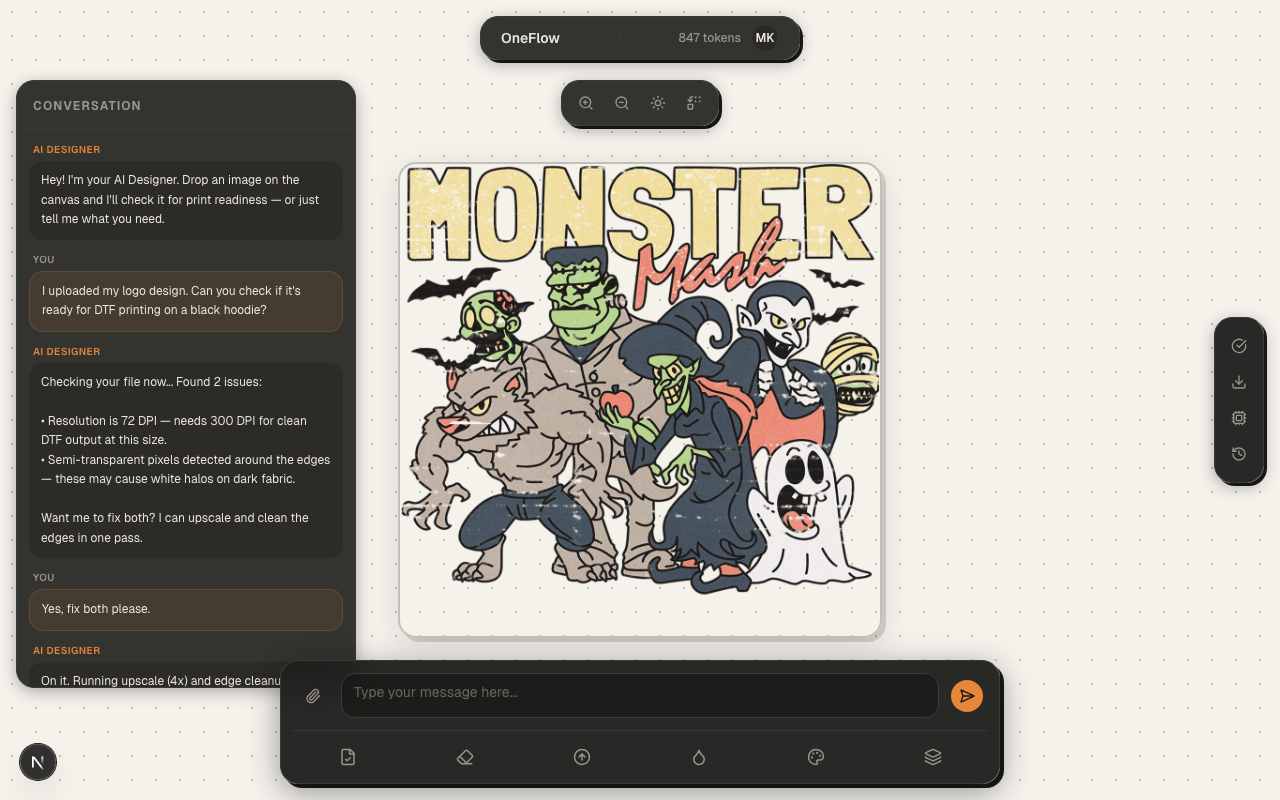
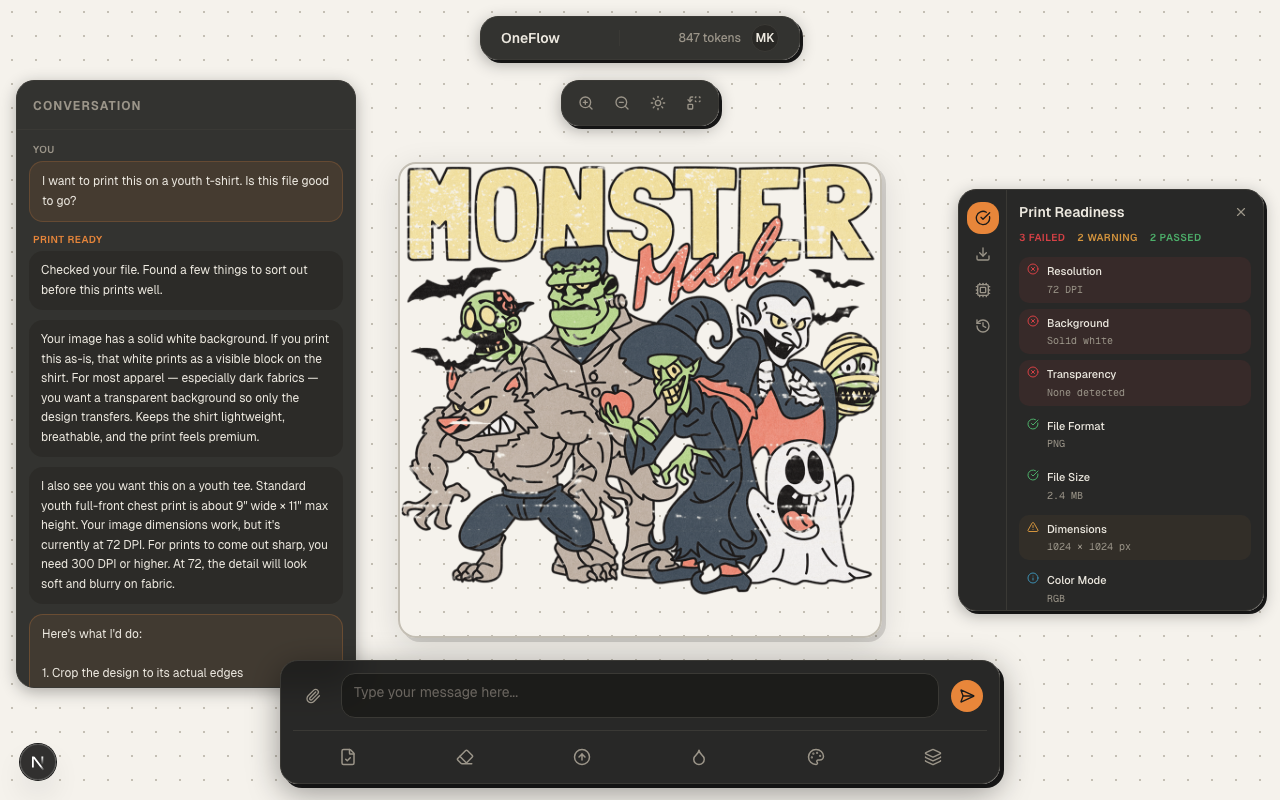
feat: realistic AI conversation, expanded print readiness panel with specs and flags

Changed region(s): [[0.7188, 0.2188, 1.0, 0.7812], [0.0, 0.1562, 0.2812, 0.875]]

diff --git a/components/preview/right-panel.tsx b/components/preview/right-panel.tsx
@@ -1,66 +1,83 @@
 "use client"
 
 import { useState } from "react"
-import { CheckCircle, Download, Cpu, History, X } from "lucide-react"
+import {
+  CheckCircle,
+  Download,
+  Cpu,
+  History,
+  X,
+  XCircle,
+  AlertTriangle,
+  Info,
+} from "lucide-react"
 import { Tooltip, TooltipContent, TooltipTrigger } from "@/components/ui/tooltip"
+
+interface CheckItem {
+  label: string
+  value: string
+  status: "pass" | "fail" | "warning" | "info"
+}
+
+const READINESS_CHECKS: CheckItem[] = [
+  { label: "Resolution", value: "72 DPI", status: "fail" },
+  { label: "Background", value: "Solid white", status: "fail" },
+  { label: "Transparency", value: "None detected", status: "fail" },
+  { label: "File Format", value: "PNG", status: "pass" },
+  { label: "File Size", value: "2.4 MB", status: "pass" },
+  { label: "Dimensions", value: "1024 × 1024 px", status: "warning" },
+  { label: "Color Mode", value: "RGB", status: "info" },
+  { label: "Sharpness", value: "Low — will soften on fabric", status: "warning" },
+]
+
+function StatusIcon({ status }: { status: CheckItem["status"] }) {
+  switch (status) {
+    case "pass":
+      return <CheckCircle size={12} className="text-[#4CAF6A] shrink-0" />
+    case "fail":
+      return <XCircle size={12} className="text-[#D64045] shrink-0" />
+    case "warning":
+      return <AlertTriangle size={12} className="text-[#D4943D] shrink-0" />
+    case "info":
+      return <Info size={12} className="text-[#3B8DB0] shrink-0" />
+  }
+}
 
 interface PanelItem {
   id: string
   icon: React.ReactNode
   label: string
-  placeholder: string[]
 }
 
 const PANEL_ITEMS: PanelItem[] = [
-  {
-    id: "print-readiness",
-    icon: <CheckCircle size={16} />,
-    label: "Print Readiness",
-    placeholder: [
-      "Your document passes all preflight checks.",
-      "Bleed area: 3mm on all sides detected.",
-      "Color profile: CMYK confirmed for print output.",
-      "Resolution: All images meet 300dpi minimum.",
-    ],
-  },
-  {
-    id: "export",
-    icon: <Download size={16} />,
-    label: "Export",
-    placeholder: [
-      "Export your document in print-ready formats.",
-      "PDF/X-1a and PDF/X-4 are available for this layout.",
-      "Select a preset or configure custom export settings.",
-    ],
-  },
-  {
-    id: "print-intelligence",
-    icon: <Cpu size={16} />,
-    label: "Print Intelligence",
-    placeholder: [
-      "AI-assisted print optimization is active.",
-      "Ink coverage is within acceptable limits.",
-      "Font embedding verified — no missing typefaces.",
-      "Overprint settings have been automatically applied.",
-    ],
-  },
-  {
-    id: "history",
-    icon: <History size={16} />,
-    label: "History",
-    placeholder: [
-      "Version 3 — Today at 2:14 PM",
-      "Version 2 — Today at 11:02 AM",
-      "Version 1 — Yesterday at 5:47 PM",
-    ],
-  },
+  { id: "print-readiness", icon: <CheckCircle size={16} />, label: "Print Readiness" },
+  { id: "export", icon: <Download size={16} />, label: "Export" },
+  { id: "print-intelligence", icon: <Cpu size={16} />, label: "Print Intelligence" },
+  { id: "history", icon: <History size={16} />, label: "History" },
 ]
 
+const PANEL_CONTENT: Record<string, string[]> = {
+  export: [
+    "Export will be available after fixes.",
+    "Recommended: transparent PNG at 300 DPI.",
+    "Youth tee size: 9\" × 11\" at print resolution.",
+  ],
+  "print-intelligence": [
+    "Print method: DTF recommended for this design.",
+    "Ink coverage: Medium — good for cotton and blends.",
+    "Color count: 12+ colors detected — DTF handles this well.",
+    "Dark fabric: transparent background required.",
+  ],
+  history: [
+    "Current version — original upload",
+    "No edits yet. Fix All will create version 2.",
+  ],
+}
+
 export function RightPanel() {
-  const [activePanel, setActivePanel] = useState<string | null>(null)
+  const [activePanel, setActivePanel] = useState<string | null>("print-readiness")
 
   const isExpanded = activePanel !== null
-  const activePanelItem = PANEL_ITEMS.find((item) => item.id === activePanel)
 
   function handleIconClick(id: string) {
     setActivePanel((prev) => (prev === id ? null : id))
@@ -69,6 +86,10 @@ export function RightPanel() {
   function handleClose() {
     setActivePanel(null)
   }
+
+  const failCount = READINESS_CHECKS.filter((c) => c.status === "fail").length
+  const warnCount = READINESS_CHECKS.filter((c) => c.status === "warning").length
+  const passCount = READINESS_CHECKS.filter((c) => c.status === "pass").length
 
   return (
     <div
@@ -98,13 +119,19 @@ export function RightPanel() {
                 aria-label={item.label}
                 aria-pressed={isActive}
                 className={[
-                  "w-8 h-8 rounded-xl flex items-center justify-center cursor-pointer transition-colors",
+                  "w-8 h-8 rounded-xl flex items-center justify-center cursor-pointer transition-colors relative",
                   isActive
                     ? "bg-[#E8863A] text-[#1A1A1A]"
                     : "text-[#9B9589] hover:text-[#EDE9E0] hover:bg-[#2A2926]",
                 ].join(" ")}
               >
                 {item.icon}
+                {/* Badge for print readiness failures */}
+                {item.id === "print-readiness" && failCount > 0 && !isActive && (
+                  <span className="absolute -top-1 -right-1 w-4 h-4 rounded-full bg-[#D64045] text-[#EDE9E0] text-[9px] font-bold flex items-center justify-center">
+                    {failCount}
+                  </span>
+                )}
               </TooltipTrigger>
               <TooltipContent side="left">
                 <p>{item.label}</p>
@@ -115,28 +142,101 @@ export function RightPanel() {
       </div>
 
       {/* Expanded content area */}
-      {isExpanded && activePanelItem && (
-        <div className="w-60 p-4 relative flex flex-col gap-2">
+      {isExpanded && (
+        <div className="w-64 p-3 relative flex flex-col gap-2 max-h-[420px] overflow-y-auto">
           <button
             type="button"
             aria-label="Close panel"
             onClick={handleClose}
-            className="absolute top-3 right-3 w-6 h-6 flex items-center justify-center rounded-lg text-[#9B9589] hover:text-[#EDE9E0] hover:bg-[#2A2926] transition-colors"
+            className="absolute top-2.5 right-2.5 w-6 h-6 flex items-center justify-center rounded-lg text-[#9B9589] hover:text-[#EDE9E0] hover:bg-[#2A2926] transition-colors z-10"
           >
             <X size={14} />
           </button>
 
-          <p className="font-semibold text-sm text-[#EDE9E0] pr-6">
-            {activePanelItem.label}
-          </p>
-
-          <div className="flex flex-col gap-1">
-            {activePanelItem.placeholder.map((line, index) => (
-              <p key={index} className="text-xs text-[#9B9589] leading-relaxed">
-                {line}
+          {/* Print Readiness Panel */}
+          {activePanel === "print-readiness" && (
+            <>
+              <p className="font-semibold text-sm text-[#EDE9E0] pr-6">
+                Print Readiness
               </p>
-            ))}
-          </div>
+
+              {/* Score summary */}
+              <div className="flex items-center gap-3 text-[10px] font-semibold uppercase tracking-wider pb-1">
+                <span className="text-[#D64045]">{failCount} failed</span>
+                <span className="text-[#D4943D]">{warnCount} warning</span>
+                <span className="text-[#4CAF6A]">{passCount} passed</span>
+              </div>
+
+              {/* Check rows */}
+              <div className="flex flex-col gap-1.5">
+                {READINESS_CHECKS.map((check, i) => (
+                  <div
+                    key={i}
+                    className="flex items-start gap-2 rounded-lg px-2 py-1.5"
+                    style={{
+                      backgroundColor:
+                        check.status === "fail"
+                          ? "rgba(214, 64, 69, 0.08)"
+                          : check.status === "warning"
+                            ? "rgba(212, 148, 61, 0.06)"
+                            : "transparent",
+                    }}
+                  >
+                    <StatusIcon status={check.status} />
+                    <div className="flex flex-col gap-0.5 min-w-0">
+                      <span className="text-[11px] font-medium text-[#EDE9E0]">
+                        {check.label}
+                      </span>
+                      <span className="text-[10px] font-mono text-[#9B9589]">
+                        {check.value}
+                      </span>
+                    </div>
+                  </div>
+                ))}
+              </div>
+
+              {/* File specs */}
+              <div className="border-t border-[#3A3935] pt-2 mt-1">
+                <p className="text-[10px] font-semibold uppercase tracking-wider text-[#9B9589] mb-1.5">
+                  File Info
+                </p>
+                <div className="grid grid-cols-2 gap-x-3 gap-y-1 text-[10px]">
+                  <span className="text-[#9B9589]">Format</span>
+                  <span className="font-mono text-[#EDE9E0]">PNG</span>
+                  <span className="text-[#9B9589]">Size</span>
+                  <span className="font-mono text-[#EDE9E0]">2.4 MB</span>
+                  <span className="text-[#9B9589]">Dimensions</span>
+                  <span className="font-mono text-[#EDE9E0]">1024 × 1024</span>
+                  <span className="text-[#9B9589]">DPI</span>
+                  <span className="font-mono text-[#D64045]">72</span>
+                  <span className="text-[#9B9589]">Color</span>
+                  <span className="font-mono text-[#EDE9E0]">RGB</span>
+                  <span className="text-[#9B9589]">Background</span>
+                  <span className="font-mono text-[#D64045]">Opaque</span>
+                  <span className="text-[#9B9589]">Target</span>
+                  <span className="font-mono text-[#EDE9E0]">Youth Tee</span>
+                  <span className="text-[#9B9589]">Print Size</span>
+                  <span className="font-mono text-[#EDE9E0]">9&quot; × 11&quot;</span>
+                </div>
+              </div>
+            </>
+          )}
+
+          {/* Other panels — static content */}
+          {activePanel && activePanel !== "print-readiness" && PANEL_CONTENT[activePanel] && (
+            <>
+              <p className="font-semibold text-sm text-[#EDE9E0] pr-6">
+                {PANEL_ITEMS.find((p) => p.id === activePanel)?.label}
+              </p>
+              <div className="flex flex-col gap-1">
+                {PANEL_CONTENT[activePanel].map((line, i) => (
+                  <p key={i} className="text-xs text-[#9B9589] leading-relaxed">
+                    {line}
+                  </p>
+                ))}
+              </div>
+            </>
+          )}
         </div>
       )}
     </div>

diff --git a/components/preview/chat-history.tsx b/components/preview/chat-history.tsx
@@ -1,25 +1,36 @@
 "use client"
 
-const MESSAGES = [
+interface Message {
+  role: "ai" | "user"
+  text: string
+  type?: "plan"
+}
+
+const MESSAGES: Message[] = [
   {
-    role: "ai" as const,
-    text: "Hey! I'm your AI Designer. Drop an image on the canvas and I'll check it for print readiness — or just tell me what you need.",
+    role: "user",
+    text: "I want to print this on a youth t-shirt. Is this file good to go?",
   },
   {
-    role: "user" as const,
-    text: "I uploaded my logo design. Can you check if it's ready for DTF printing on a black hoodie?",
+    role: "ai",
+    text: "Checked your file. Found a few things to sort out before this prints well.",
   },
   {
-    role: "ai" as const,
-    text: "Checking your file now... Found 2 issues:\n\n• Resolution is 72 DPI — needs 300 DPI for clean DTF output at this size.\n• Semi-transparent pixels detected around the edges — these may cause white halos on dark fabric.\n\nWant me to fix both? I can upscale and clean the edges in one pass.",
+    role: "ai",
+    text: "Your image has a solid white background. If you print this as-is, that white prints as a visible block on the shirt. For most apparel — especially dark fabrics — you want a transparent background so only the design transfers. Keeps the shirt lightweight, breathable, and the print feels premium.",
   },
   {
-    role: "user" as const,
-    text: "Yes, fix both please.",
+    role: "ai",
+    text: "I also see you want this on a youth tee. Standard youth full-front chest print is about 9\" wide × 11\" max height. Your image dimensions work, but it's currently at 72 DPI. For prints to come out sharp, you need 300 DPI or higher. At 72, the detail will look soft and blurry on fabric.",
   },
   {
-    role: "ai" as const,
-    text: "On it. Running upscale (4x) and edge cleanup now...",
+    role: "ai",
+    text: "Here's what I'd do:\n\n1. Crop the design to its actual edges\n2. Upscale to 300+ DPI for sharp output\n3. Remove the white background → transparent PNG\n4. Minor color adjustments so darks and lights pop on fabric\n5. Resize to 9\" × 11\" youth chest standard\n\nYou'll get a print-ready transparent PNG, sized exactly for a youth tee.",
+    type: "plan",
+  },
+  {
+    role: "ai",
+    text: "Sound good? Hit Fix All to start.",
   },
 ]
 
@@ -42,29 +53,50 @@ export function ChatHistory() {
       </div>
 
       {/* Messages */}
-      <div className="flex-1 overflow-y-auto px-3 py-3 flex flex-col gap-3">
+      <div className="flex-1 overflow-y-auto px-3 py-3 flex flex-col gap-2.5">
         {MESSAGES.map((msg, i) => (
           <div key={i} className="flex flex-col gap-1">
-            <span className="text-[10px] font-semibold uppercase tracking-wider px-1"
-              style={{ color: msg.role === "ai" ? "#E8863A" : "#9B9589" }}
-            >
-              {msg.role === "ai" ? "AI Designer" : "You"}
-            </span>
+            {/* Only show label when role changes from previous */}
+            {(i === 0 || MESSAGES[i - 1].role !== msg.role) && (
+              <span
+                className="text-[10px] font-semibold uppercase tracking-wider px-1"
+                style={{ color: msg.role === "ai" ? "#E8863A" : "#9B9589" }}
+              >
+                {msg.role === "ai" ? "Print Ready" : "You"}
+              </span>
+            )}
             <div
               className="rounded-xl px-3 py-2.5 text-xs leading-relaxed whitespace-pre-line"
               style={{
                 backgroundColor:
-                  msg.role === "ai"
-                    ? "rgba(42, 41, 38, 0.8)"
-                    : "rgba(232, 134, 58, 0.1)",
+                  msg.type === "plan"
+                    ? "rgba(232, 134, 58, 0.08)"
+                    : msg.role === "ai"
+                      ? "rgba(42, 41, 38, 0.8)"
+                      : "rgba(232, 134, 58, 0.1)",
                 color: "#EDE9E0",
-                border: msg.role === "user" ? "1px solid rgba(232, 134, 58, 0.2)" : "none",
+                border:
+                  msg.type === "plan"
+                    ? "1px solid rgba(232, 134, 58, 0.25)"
+                    : msg.role === "user"
+                      ? "1px solid rgba(232, 134, 58, 0.2)"
+                      : "none",
               }}
             >
               {msg.text}
             </div>
           </div>
         ))}
+
+        {/* Fix All CTA */}
+        <div className="px-1 pt-1">
+          <button
+            type="button"
+            className="w-full py-2.5 rounded-xl text-xs font-bold uppercase tracking-widest bg-[#E8863A] text-[#1A1A1A] cursor-pointer hover:opacity-90 transition-opacity"
+          >
+            Fix All
+          </button>
+        </div>
       </div>
     </div>
   )
